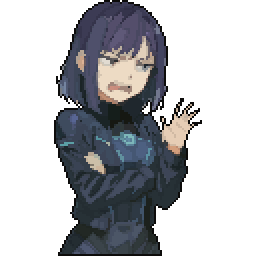
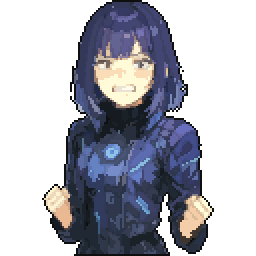
added more expressions, change some expresions and added more dialoguies and paths

diff --git a/src/pages/GirlPath2ab.jsx b/src/pages/GirlPath2ab.jsx
@@ -13,12 +13,12 @@ import { motion as Motion } from "framer-motion";
 import { useNavigate } from "react-router-dom";
 
 import complimentHeadingBg from "../assets/images/compliment-heading-bg2.svg";
-import animeGirl from "../assets/images/anime-girl-neutral.png";
+import animeGirl from "../assets/images/anime-girl-sad.png";
 import Typewriter from "../components/Typewriter.jsx";
-import Dialogue1b from "../dialogue/Dialogue1b.jsx";
+import Dialogue2ab from "../dialogue/Dialogue2ab.jsx";
 import clickSound from "../assets/sound/blip-select.mp3";
 
-export default function GirlPath1b() {
+export default function GirlPath2ab() {
   const navigate = useNavigate();
 
   const playSound = () => {
@@ -28,7 +28,7 @@ export default function GirlPath1b() {
 
   const handleFirstButtonClick = () => {
     playSound();
-    navigate("/girlpath1bb");
+    navigate("/girlpath2b");
   };
 
   const handleSecondButtonClick = () => {
@@ -144,7 +144,7 @@ export default function GirlPath1b() {
               onClick={handleFirstButtonClick}
               className="custom-hover bg-tertiary hover:opacity-80 text-secondary font-pixel-heading py-3 px-8 shadow-lg transform hover:scale-105 transition-all duration-200 pixel-corners disabled:opacity-60 w-[300px]"
             >
-              "Oh shit.. mb"
+              "My name is Shrish.."
             </button>
           </Pop>
           <Pop delay={0.5} className="block">
@@ -152,7 +152,7 @@ export default function GirlPath1b() {
               onClick={handleSecondButtonClick}
               className="custom-hover bg-secondary hover:opacity-80 text-main font-pixel-heading py-3 px-8 shadow-lg transform hover:scale-105 transition-all duration-200 pixel-corners disabled:opacity-60 w-[300px]"
             >
-              "Psshh And? What are you gonna do about it?"
+              "Sike!!!1 Bye, Felicia!"
             </button>
           </Pop>
         </div>
@@ -190,7 +190,7 @@ export default function GirlPath1b() {
             }}
           >
             {/* Typewriter animated message */}
-            <Dialogue1b />
+            <Dialogue2ab />
           </Pop>
         </div>
       </Pop>

diff --git a/src/pages/GirlPath2a.jsx b/src/pages/GirlPath2a.jsx
@@ -13,12 +13,12 @@ import { motion as Motion } from "framer-motion";
 import { useNavigate } from "react-router-dom";
 
 import complimentHeadingBg from "../assets/images/compliment-heading-bg2.svg";
-import animeGirl from "../assets/images/anime-girl-neutral.png";
+import animeGirl from "../assets/images/anime-girl-angry.png";
 import Typewriter from "../components/Typewriter.jsx";
-import Dialogue1b from "../dialogue/Dialogue1b.jsx";
+import Dialogue2a from "../dialogue/Dialogue2a.jsx";
 import clickSound from "../assets/sound/blip-select.mp3";
 
-export default function GirlPath1b() {
+export default function GirlPath2a() {
   const navigate = useNavigate();
 
   const playSound = () => {
@@ -28,7 +28,7 @@ export default function GirlPath1b() {
 
   const handleFirstButtonClick = () => {
     playSound();
-    navigate("/girlpath1bb");
+    navigate("/girlpath2ab");
   };
 
   const handleSecondButtonClick = () => {
@@ -144,7 +144,7 @@ export default function GirlPath1b() {
               onClick={handleFirstButtonClick}
               className="custom-hover bg-tertiary hover:opacity-80 text-secondary font-pixel-heading py-3 px-8 shadow-lg transform hover:scale-105 transition-all duration-200 pixel-corners disabled:opacity-60 w-[300px]"
             >
-              "Oh shit.. mb"
+              "Oh sorry.. my bad"
             </button>
           </Pop>
           <Pop delay={0.5} className="block">
@@ -152,7 +152,7 @@ export default function GirlPath1b() {
               onClick={handleSecondButtonClick}
               className="custom-hover bg-secondary hover:opacity-80 text-main font-pixel-heading py-3 px-8 shadow-lg transform hover:scale-105 transition-all duration-200 pixel-corners disabled:opacity-60 w-[300px]"
             >
-              "Psshh And? What are you gonna do about it?"
+              "Leave me alone.."
             </button>
           </Pop>
         </div>
@@ -190,7 +190,7 @@ export default function GirlPath1b() {
             }}
           >
             {/* Typewriter animated message */}
-            <Dialogue1b />
+            <Dialogue2a />
           </Pop>
         </div>
       </Pop>

diff --git a/src/App.jsx b/src/App.jsx
@@ -8,9 +8,9 @@ import GirlPath1b from "./pages/GirlPath1b.jsx";
 import GirlPath1ba from "./pages/GirlPath1ba.jsx";
 // import GirlPath1bb from "./pages/GirlPath1bb.jsx";
 // import GirlPath1bba from "./pages/GirlPath1bba.jsx";
-// import GirlPath2a from "./pages/GirlPath2a.jsx";
+import GirlPath2a from "./pages/GirlPath2a.jsx";
 import GirlPath2b from "./pages/GirlPath2b.jsx";
-// import GirlPath2ab from "./pages/GirlPath2ab.jsx";
+import GirlPath2ab from "./pages/GirlPath2ab.jsx";
 // import GirlPath2aba from "./pages/GirlPath2aba.jsx";
 // import GirlPath2bb from "./pages/GirlPath2bb.jsx";
 // import GirlPath2bbb from "./pages/GirlPath2bbb.jsx";
@@ -38,9 +38,9 @@ export default function App() {
         <Route path="/girlpath1ba" element={<GirlPath1ba />} />
         {/* <Route path="/girlpath1bb" element={<GirlPath1bb />} /> */}
         {/* <Route path="/girlpath1bba" element={<GirlPath1bba />} /> */}
-        {/* <Route path="/girlpath2a" element={<GirlPath2a />} /> */}
+        <Route path="/girlpath2a" element={<GirlPath2a />} />
         <Route path="/girlpath2b" element={<GirlPath2b />} />
-        {/* <Route path="/girlpath2ab" element={<GirlPath2ab />} /> */}
+        <Route path="/girlpath2ab" element={<GirlPath2ab />} />
         {/* <Route path="/girlpath2aba" element={<GirlPath2aba />} /> */}
         {/* <Route path="/girlpath2bb" element={<GirlPath2bb />} /> */}
         {/* <Route path="/girlpath2bbb" element={<GirlPath2bbb />} /> */}

diff --git a/src/pages/GirlPathGoodEnding.jsx b/src/pages/GirlPathGoodEnding.jsx
@@ -13,7 +13,7 @@ import { motion as Motion } from "framer-motion";
 import { useNavigate } from "react-router-dom";
 
 import complimentHeadingBg from "../assets/images/compliment-heading-bg2.svg";
-import animeGirl from "../assets/images/anime-girl-excited.png";
+import animeGirl from "../assets/images/anime-girl-super-happy.png";
 import Typewriter from "../components/Typewriter.jsx";
 import DialogueGoodEnding from "../dialogue/DialogueGoodEnding.jsx";
 import clickSound from "../assets/sound/blip-select.mp3";
@@ -144,7 +144,7 @@ export default function GirlPathGoodEnding() {
               onClick={handleFirstButtonClick}
               className="custom-hover bg-tertiary hover:opacity-80 text-secondary font-pixel-heading py-3 px-8 shadow-lg transform hover:scale-105 transition-all duration-200 pixel-corners disabled:opacity-60 w-[300px]"
             >
-              CONGRATS! You found the good ending!
+              CONGRATS! You found the good ending! Go back to the main menu?
             </button>
           </Pop>
           <Pop delay={0.5} className="block">

diff --git a/src/dialogue/Dialogue2a.jsx b/src/dialogue/Dialogue2a.jsx
@@ -1,0 +1,40 @@
+import React, { useRef } from "react";
+import Typewriter from "../components/Typewriter";
+
+function Dialogue2() {
+  const audioRef = useRef(null);
+
+  const playSound = () => {
+    if (audioRef.current) {
+      audioRef.current.currentTime = 0; // Reset audio to the start
+      audioRef.current.play();
+    }
+  };
+
+  const stopSound = () => {
+    if (audioRef.current) {
+      setTimeout(() => {
+        audioRef.current.pause();
+        audioRef.current.currentTime = 0; // Reset audio to the start
+      }, 500);
+    }
+  };
+
+  return (
+    <div>
+      <audio
+        ref={audioRef}
+        src="./src/assets/sound/blippity.mp3"
+        preload="auto"
+      />
+      <Typewriter
+        text="  Woah.. That's really rude.I'm just tryingh to be friendly here. But okay, if you don't want to tell me your name, that's fine I guess."
+        onStart={playSound}
+        onDone={stopSound}
+        className="text-main font-pixel-heading leading-relaxed"
+      />
+    </div>
+  );
+}
+
+export default Dialogue2;

diff --git a/src/dialogue/Dialogue2ab.jsx b/src/dialogue/Dialogue2ab.jsx
@@ -1,0 +1,40 @@
+import React, { useRef } from "react";
+import Typewriter from "../components/Typewriter";
+
+function Dialogue2() {
+  const audioRef = useRef(null);
+
+  const playSound = () => {
+    if (audioRef.current) {
+      audioRef.current.currentTime = 0; // Reset audio to the start
+      audioRef.current.play();
+    }
+  };
+
+  const stopSound = () => {
+    if (audioRef.current) {
+      setTimeout(() => {
+        audioRef.current.pause();
+        audioRef.current.currentTime = 0; // Reset audio to the start
+      }, 500);
+    }
+  };
+
+  return (
+    <div>
+      <audio
+        ref={audioRef}
+        src="./src/assets/sound/blippity.mp3"
+        preload="auto"
+      />
+      <Typewriter
+        text="  Sorry.. We got off the wrong foot. So whats your name?"
+        onStart={playSound}
+        onDone={stopSound}
+        className="text-main font-pixel-heading leading-relaxed"
+      />
+    </div>
+  );
+}
+
+export default Dialogue2;

diff --git a/src/pages/GirlPath2.jsx b/src/pages/GirlPath2.jsx
@@ -13,7 +13,7 @@ import { motion as Motion } from "framer-motion";
 import { useNavigate } from "react-router-dom";
 
 import complimentHeadingBg from "../assets/images/compliment-heading-bg2.svg";
-import animeGirl from "../assets/images/anime-girl-excited.png";
+import animeGirl from "../assets/images/anime-girl-smile.png";
 import Typewriter from "../components/Typewriter.jsx";
 import Dialogue2 from "../dialogue/Dialogue2.jsx";
 import clickSound from "../assets/sound/blip-select.mp3";
